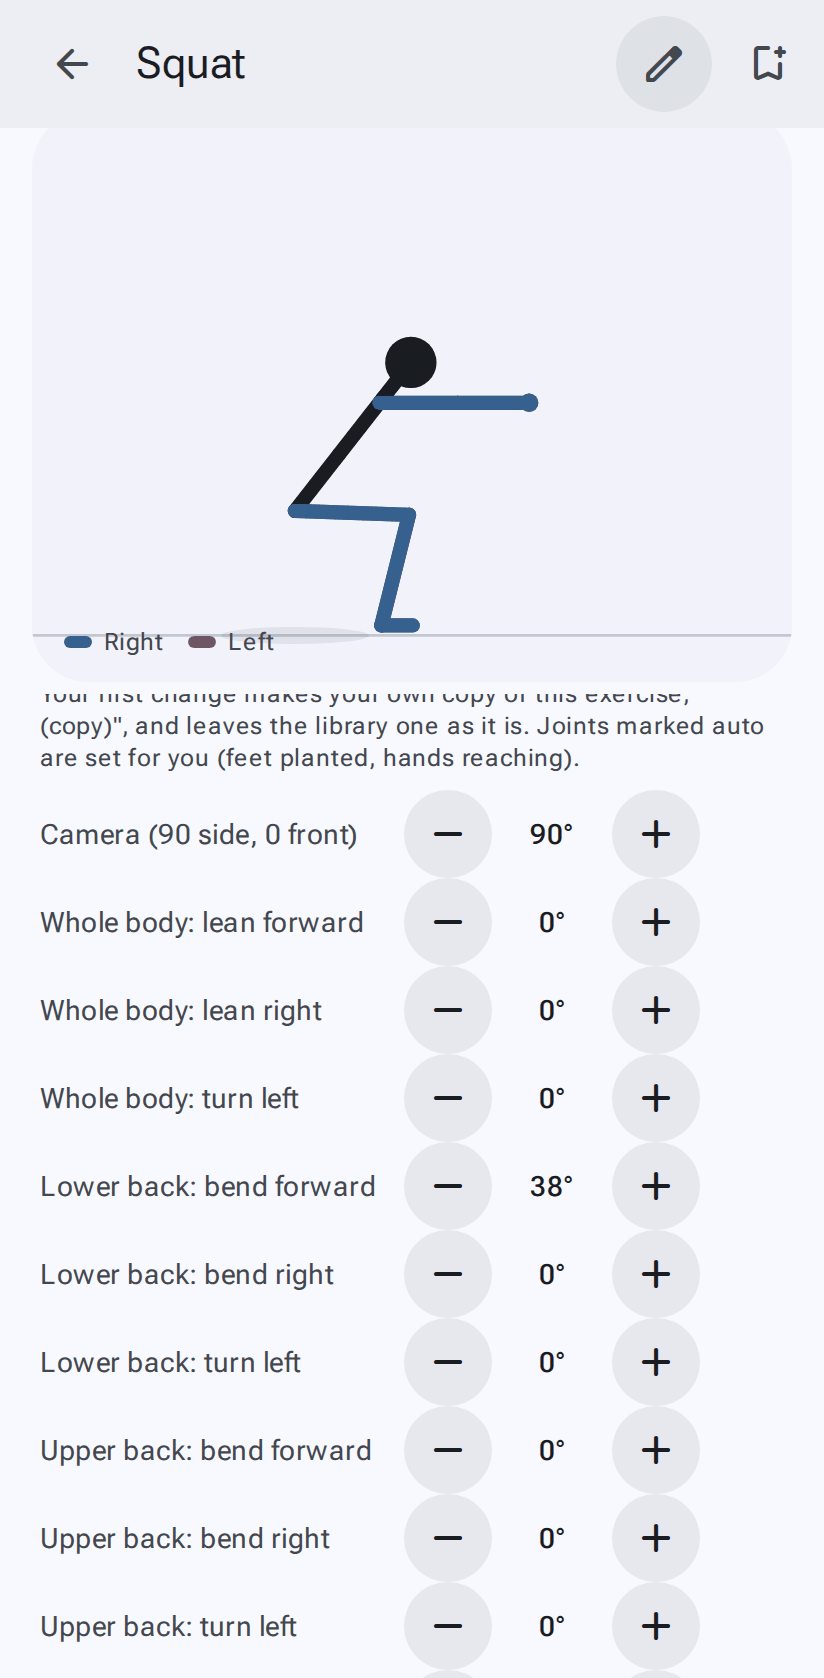
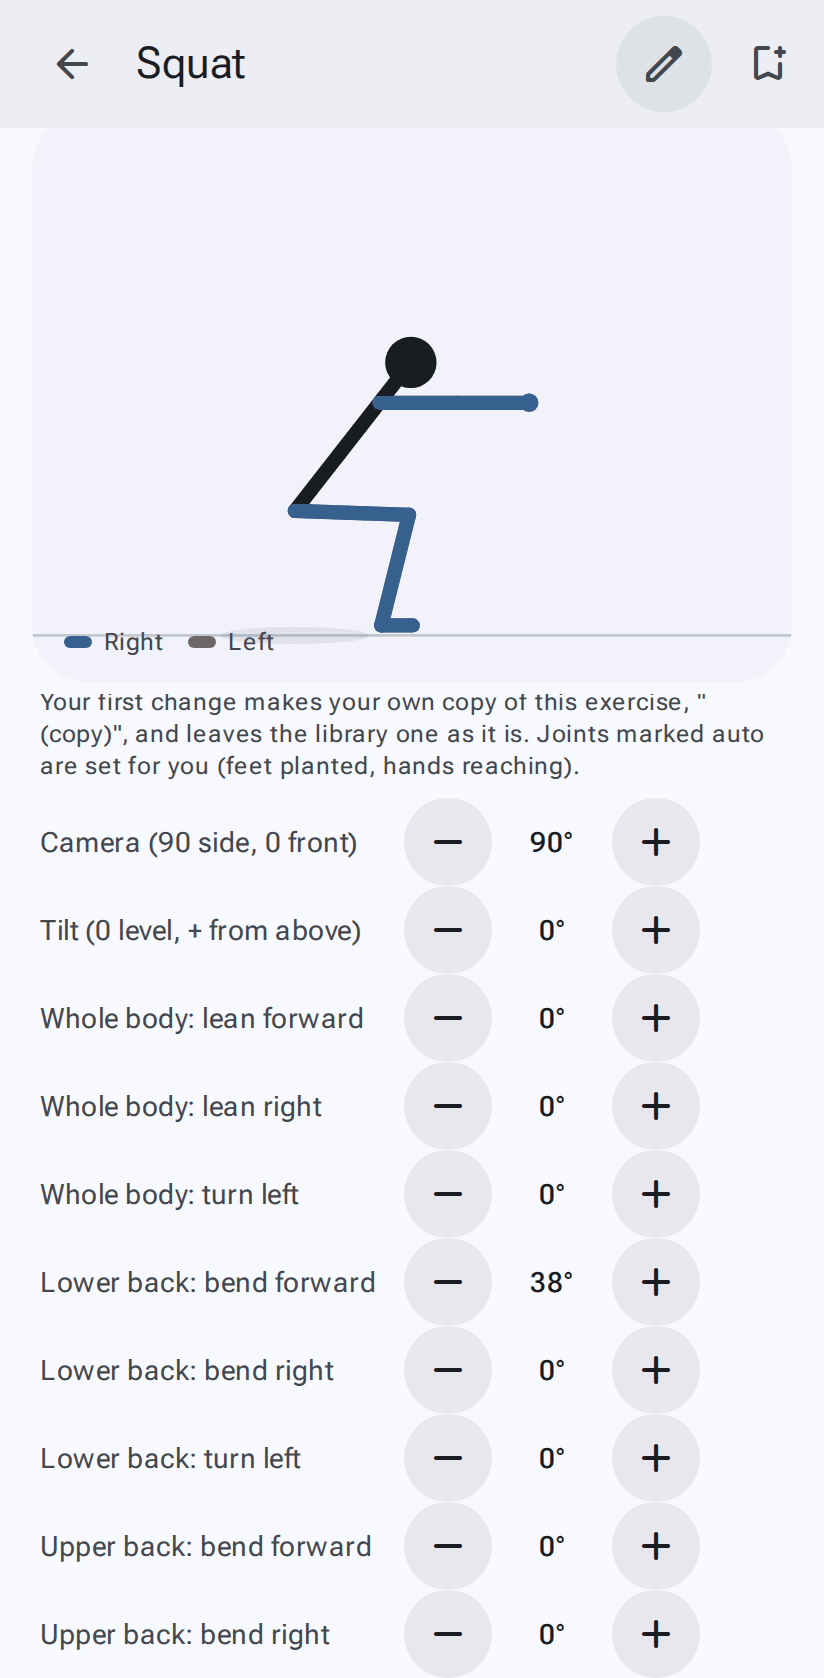
Camera tilt: the tests measure the floor under the figure; editor row "Tilt"; editor screenshot
balls_ring read the floor line's y1 (a path now); floor_height_cover measured
the floor band's far edge for a tilted exercise: it measures the floor under
the figure (its shadow), or the figure where it reaches lower.

Claude-Session: https://claude.ai/code/session_0133kyx5MPf8aRU2sQwm2BG7

diff --git a/src/app/5-main.js b/src/app/5-main.js
@@ -39,7 +39,7 @@ const POSE_ROWS = [{
   key: 'camera', label: 'Camera (90 side, 0 front)', auto: () => false, resolved: r => r.cam,
   get: kf => (kf.camera != null ? num(kf.camera) : 90), set: (kf, v) => { kf.camera = v; }
 }, {
-  key: 'tilt', label: 'Camera tilt (0 level, + from above)', auto: () => false, resolved: r => r.tilt,
+  key: 'tilt', label: 'Tilt (0 level, + from above)', auto: () => false, resolved: r => r.tilt,
   get: kf => num(kf.tilt), set: (kf, v) => { v = Math.max(0, Math.min(90, v)); if (v) kf.tilt = v; else delete kf.tilt; }
 }].concat(JOINTS.flatMap(([j, name, parts]) => parts.map((part, i) => {
   const ball = parts.length === 3, key = ball ? `${j}.${i}` : j;

diff --git a/tools/e2e/floor_height_cover.py b/tools/e2e/floor_height_cover.py
@@ -16,8 +16,10 @@ async def main():
         for i in range(n):
             await pg.evaluate(f"startWorkout(LIB_WK[0], {i})"); await pg.wait_for_timeout(250)
             await pg.evaluate("S.speed=5"); await pg.wait_for_timeout(700)
-            # where the floor line lands on the screen, as a share of the screen height from the bottom
-            gap=await pg.evaluate("""(()=>{const l=scene.querySelector('.floor-line').getBoundingClientRect(); return (innerHeight - l.top)/innerHeight;})()""")
+            # where the bottom of the picture lands on the screen, as a share of the screen height from the bottom: the floor
+            # under the figure (the middle of its shadow, on the floor line seen level), or the figure where it reaches
+            # lower (looking down from above, the floor is a band and the near arm or leg is below the floor under the hips)
+            gap=await pg.evaluate("""(()=>{const l=$('#figShadow').getBoundingClientRect(), f=$('#figRoot').getBoundingClientRect(); return (innerHeight - Math.max((l.top + l.bottom) / 2, f.bottom))/innerHeight;})()""")
             name=await pg.evaluate("S.ex.name"); worst.append((round(gap*100,1), name))
             if i in (0,3,11,12,14,23): p_=f'/tmp/fl_{i}.png'; await pg.screenshot(path=p_); shots.append(p_)
         worst.sort()

diff --git a/tools/e2e/balls_ring.py b/tools/e2e/balls_ring.py
@@ -22,6 +22,6 @@ async def main():
             print(f'{id:22} step {i} {pt} to the ball', await pg.evaluate(f"(() => {{ const r = S.resolved[{i}]; SUPPORTS = S.resolved.supports; const P = fkAt(r.pose, S.seg, place(r.pose, S.seg, r.rule)); return Math.round(P.{pt}.y - supportAt(P.{pt})); }})()"), 'px')
         # the ball stands on the floor line (drawn 7 below where the body rests), its top where the body rests on it
         await pg.goto(URL + '#/play/ball-seated-march', wait_until='domcontentloaded'); await pg.wait_for_timeout(400)
-        check('ball bottom, top', await pg.evaluate("(() => { const r = $('#scene .surface.ball').getBBox(), f = +$('#scene .floor-line').getAttribute('y1'); return [Math.round(r.y + r.height - f), Math.round(FLOOR - r.y)]; })()"), [0, 96], '[0, 2r = 96]')
+        check('ball bottom, top', await pg.evaluate("(() => { const r = $('#scene .surface.ball').getBBox(), f = $('#scene .floor-line').getBBox().y; return [Math.round(r.y + r.height - f), Math.round(FLOOR - r.y)]; })()"), [0, 96], '[0, 2r = 96]')
         check('errors', errs, []); await b.close()
 asyncio.run(main())

diff --git a/HANDOFF.md b/HANDOFF.md
@@ -170,7 +170,7 @@ All in `src/core.js`. Format v2 (Sep 2026): a 3D figure, jointed like an artist'
   floor where it is (`wallOnScreen` gives its foot `y` and `top`); a slack band sags no lower than its lower end; the
   floor ticks of a travelling exercise lie on the floor. The exercise page centres a tilted exercise in the stage at
   the usual scale (the floor isn't near the bottom), the workout player's frame and the thumbnails take in the near end
-  below the usual floor (thumbnails centred too). The editor has a Camera tilt row; `tools/viewer3d.html` a Tilt
+  below the usual floor (thumbnails centred too). The editor has a Tilt row; `tools/viewer3d.html` a Tilt
   slider. Transitions between exercises blend the tilt with the camera.
 - Segments (`DEFAULT_SEGMENTS`): torso 100 (two halves: lower back `torso`, upper back `chest`), neck 14,
   head radius 18, upper arm 55, forearm 50, thigh 80, shin 80, foot 22, shoulder half-width 22, hip half-width 12.

diff --git a/wiki/Editing-exercises.md b/wiki/Editing-exercises.md
@@ -31,7 +31,7 @@ suggest your change for everyone's library: **Share → Submit to library** ([ho
 ## Changing the poses (Advanced exercise editor)
 
 Turn on **Advanced exercise editor** in [Settings → Import & tools](Settings.md#import--tools) to also get the poses: the camera
-(**Side** or **Front**, or any angle in between), the **camera tilt** (0 is level with the floor; 20–35 looks down from
+(**Side** or **Front**, or any angle in between), the camera **Tilt** (0 is level with the floor; 20–35 looks down from
 above, for poses flat on the floor), every joint with − / + buttons (hold to repeat; steps of 1°, 5° or
 15°), and the exercise's JSON.
 
